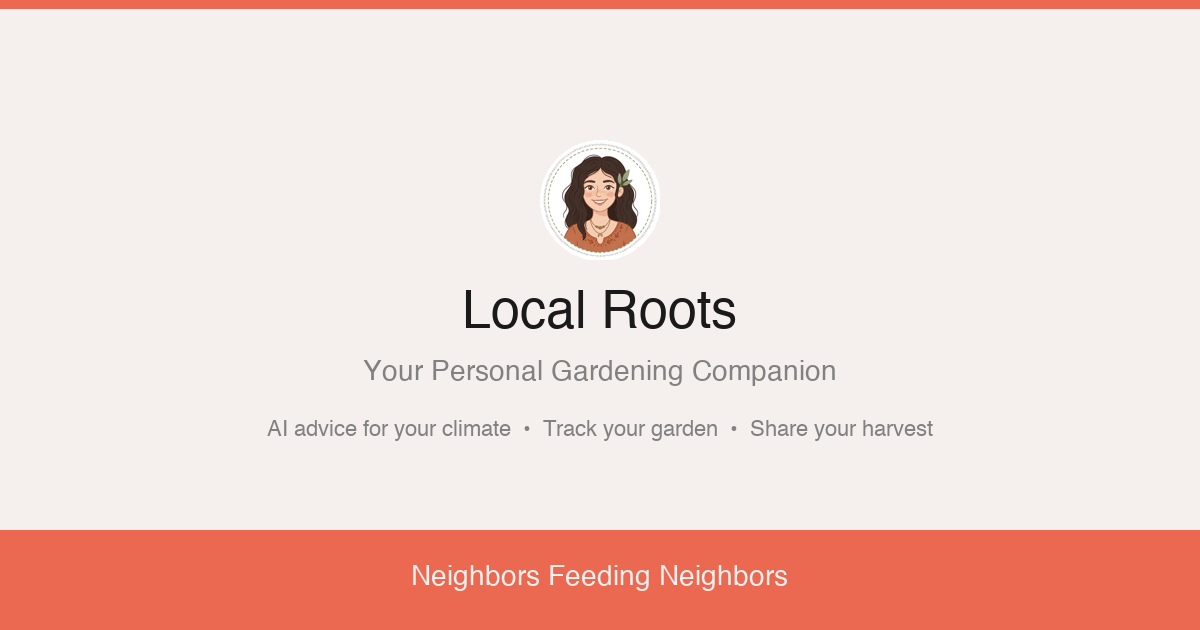
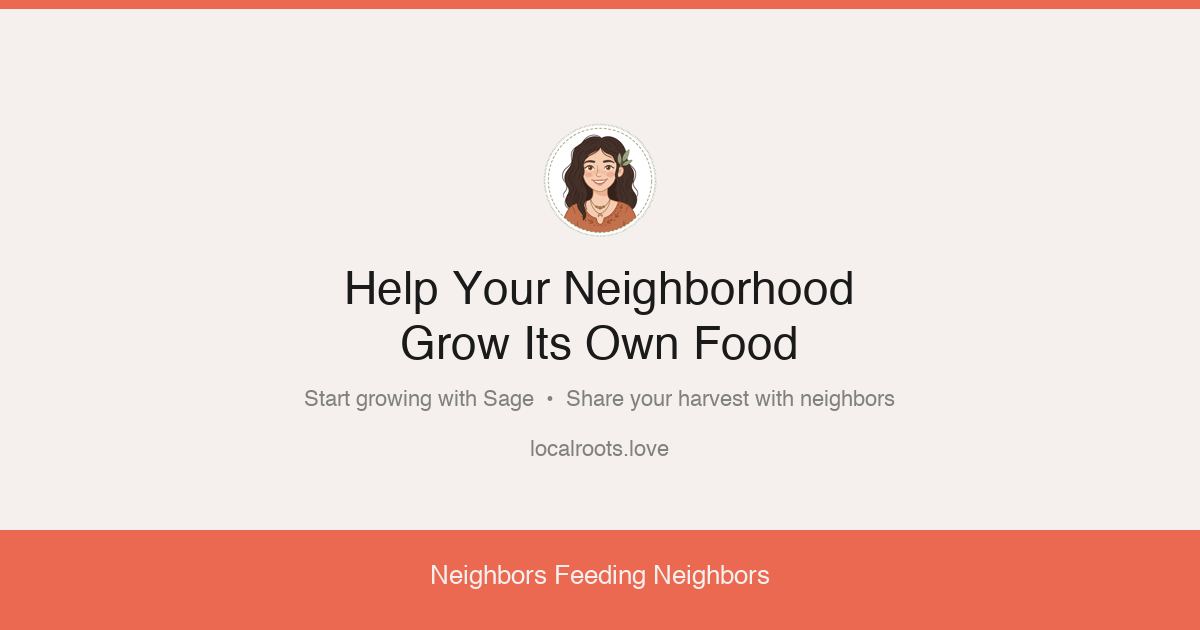
Refocus messaging on mission: help neighborhoods grow their own food
Homepage: "Your Personal Gardening Companion" → "Help Your Neighborhood
Grow Its Own Food". Reframes from product description to mission statement.
Sage card now welcomes first-time growers. Mission bridge emphasizes that
every new gardener strengthens the community. Ambassador pitch connects
recruiting to community resilience.

OG image and meta tags updated to lead with mission, not features.

Changed region(s): [[0.2158, 0.2111, 0.7708, 0.7238], [0.3392, 0.9048, 0.6783, 0.9349]]

diff --git a/frontend/src/app/page.tsx b/frontend/src/app/page.tsx
@@ -10,11 +10,11 @@ export default function Home() {
       <main className="max-w-7xl mx-auto px-4 py-16">
         <div className="text-center mb-16">
           <h1 className="text-4xl md:text-5xl font-bold text-gray-900 mb-6">
-            Your Personal Gardening Companion
+            Help Your Neighborhood Grow Its Own Food
           </h1>
           <p className="text-xl text-roots-gray max-w-2xl mx-auto mb-8">
-            AI-powered advice for your exact climate. A tracker that grows with your garden.
-            And when harvest comes — your neighbors are waiting.
+            Whether you&apos;ve never planted a seed or you&apos;re drowning in tomatoes,
+            Sage will help you grow. And when harvest comes — your neighbors are waiting.
           </p>
           <div className="flex flex-col sm:flex-row justify-center items-center gap-4 mb-6">
             <Link href="/grow">
@@ -33,13 +33,13 @@ export default function Home() {
 
         {/* What can I help you with? */}
         <div className="mb-16">
-          <h2 className="text-2xl font-bold text-center mb-8">What can I help you with?</h2>
+          <h2 className="text-2xl font-bold text-center mb-8">Ready to start?</h2>
           <div className="grid md:grid-cols-3 gap-6">
             <Link href="/grow" className="card text-center hover:shadow-lg transition-shadow group">
               <img src="/sage-avatar.png" alt="Sage" className="w-16 h-16 rounded-full mx-auto mb-2" />
               <h3 className="text-xl font-semibold mb-2 group-hover:text-roots-secondary transition-colors">Ask Sage</h3>
               <p className="text-roots-gray text-sm">
-                What should I plant right now? How do I fix yellow leaves? Snap a photo and I&apos;ll identify it.
+                Never grown before? Start here. Sage knows your zone, your frost dates, and exactly what to plant right now.
               </p>
             </Link>
             <Link href="/grow/calendar" className="card text-center hover:shadow-lg transition-shadow group">
@@ -61,7 +61,7 @@ export default function Home() {
 
         {/* Mission Bridge — Garden to Community */}
         <div className="card mb-16 bg-gradient-to-r from-roots-secondary/5 to-roots-primary/5 text-center">
-          <h2 className="text-2xl md:text-3xl font-bold mb-4">When your garden grows, so does your community</h2>
+          <h2 className="text-2xl md:text-3xl font-bold mb-4">Every new gardener makes your community stronger</h2>
           {/* Journey Steps */}
           <div className="flex flex-wrap justify-center items-center gap-3 md:gap-4 mb-6 text-lg">
             <span className="flex items-center gap-1.5"><span className="text-2xl">🌱</span> Plant</span>
@@ -74,7 +74,8 @@ export default function Home() {
           </div>
           <p className="text-roots-gray max-w-xl mx-auto mb-6">
             Growing more than you can eat? Your neighbors want it.
-            List your extras on LocalRoots — no fees, no fuss. 100% goes to you.
+            List your extras — no fees, no middlemen, 100% goes to you.
+            Every sale encourages someone else to start growing too.
           </p>
           <Link href="/sell">
             <Button variant="outline" className="border-roots-primary text-roots-primary hover:bg-roots-primary hover:text-white">
@@ -100,9 +101,10 @@ export default function Home() {
         {/* Ambassador soft pitch */}
         <div className="card mb-16 text-center bg-gradient-to-r from-roots-primary/5 to-roots-secondary/5">
           <div className="text-4xl mb-4">🌟</div>
-          <h3 className="text-2xl font-bold mb-3">Help your community grow</h3>
+          <h3 className="text-2xl font-bold mb-3">Help your community grow — literally</h3>
           <p className="text-roots-gray max-w-xl mx-auto mb-6">
-            Know someone with a garden? Help them share their harvest with neighbors and earn rewards for every sale they make.
+            Encourage neighbors to start growing. Help existing gardeners share their surplus.
+            Every person you bring in makes your community more resilient — and you earn rewards for every sale they make.
           </p>
           <Link href="/ambassador">
             <Button variant="outline" className="border-roots-primary text-roots-primary hover:bg-roots-primary hover:text-white">
@@ -123,8 +125,8 @@ export default function Home() {
                 <span className="text-xl font-bold text-gray-900">Local Roots</span>
               </div>
               <p className="text-gray-600 text-sm max-w-md">
-                Your gardening companion that connects you with your neighborhood.
-                Grow food, share with neighbors, build community resilience — one harvest at a time.
+                More people growing food means stronger communities.
+                We help you start growing, and when you have more than you need, your neighbors are right here.
               </p>
             </div>
 

diff --git a/frontend/src/app/layout.tsx b/frontend/src/app/layout.tsx
@@ -15,10 +15,10 @@ export const viewport: Viewport = {
 
 export const metadata: Metadata = {
   title: 'Local Roots — Your Gardening Companion | Neighbors Feeding Neighbors',
-  description: 'AI gardening advice for your exact climate. Track your garden, plan your season, and share your harvest with neighbors.',
+  description: 'Help your neighborhood grow its own food. Free AI gardening advice for your climate, and a way to share your harvest with neighbors.',
   openGraph: {
-    title: 'Local Roots — Your Personal Gardening Companion',
-    description: 'AI advice for your climate. Track your garden. Share your harvest with neighbors.',
+    title: 'Local Roots — Help Your Neighborhood Grow Its Own Food',
+    description: 'More people growing food means stronger communities. Start growing with Sage, share your harvest with neighbors.',
     url: 'https://www.localroots.love',
     siteName: 'Local Roots',
     images: [
@@ -26,15 +26,15 @@ export const metadata: Metadata = {
         url: 'https://www.localroots.love/og-image.png',
         width: 1200,
         height: 630,
-        alt: 'Local Roots — Your Personal Gardening Companion',
+        alt: 'Local Roots — Help Your Neighborhood Grow Its Own Food',
       },
     ],
     type: 'website',
   },
   twitter: {
     card: 'summary_large_image',
-    title: 'Local Roots — Your Personal Gardening Companion',
-    description: 'AI advice for your climate. Track your garden. Share your harvest with neighbors.',
+    title: 'Local Roots — Help Your Neighborhood Grow Its Own Food',
+    description: 'More people growing food means stronger communities. Start growing with Sage, share your harvest with neighbors.',
     images: ['https://www.localroots.love/og-image.png'],
   },
   icons: {
